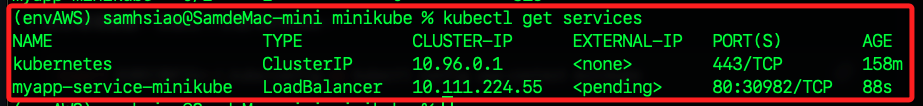
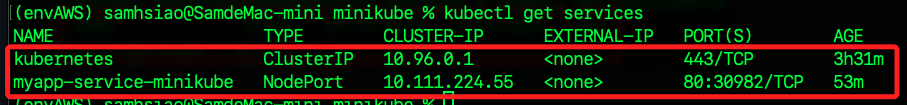
更新

diff --git a/D21_Kubernetes/11_集群間通信測試.md b/D21_Kubernetes/11_集群間通信測試.md
@@ -232,7 +232,19 @@ _在本機上運行以下指令來部署應用程序_
 
 <br>
 
-6. 獲取服務的外部 IP 地址。
+6. 查詢 Minikube 節點的 IP 地址。
+
+    ```bash
+    kubectl get nodes -o wide
+    ```
+
+<br>
+
+7. 通過 NodePort 訪問服務，使用節點的 IP 地址 192.168.49.2 和分配的 NodePort 30982 來訪問服務。
+
+<br>
+
+8. 若使用 LoadBalancer 時，透過以下指令獲取服務的外部 IP 地址。
 
     ```bash
     kubectl get svc myapp-service-minikube
@@ -240,7 +252,7 @@ _在本機上運行以下指令來部署應用程序_
 
 <br>
 
-7. 訪問返回的 IP 地址和端口；在瀏覽器中打開來檢查服務是否運行正常。
+9. 訪問返回的外部 IP 地址和端口；在瀏覽器中打開來檢查服務是否運行正常。
 
 <br>
 
